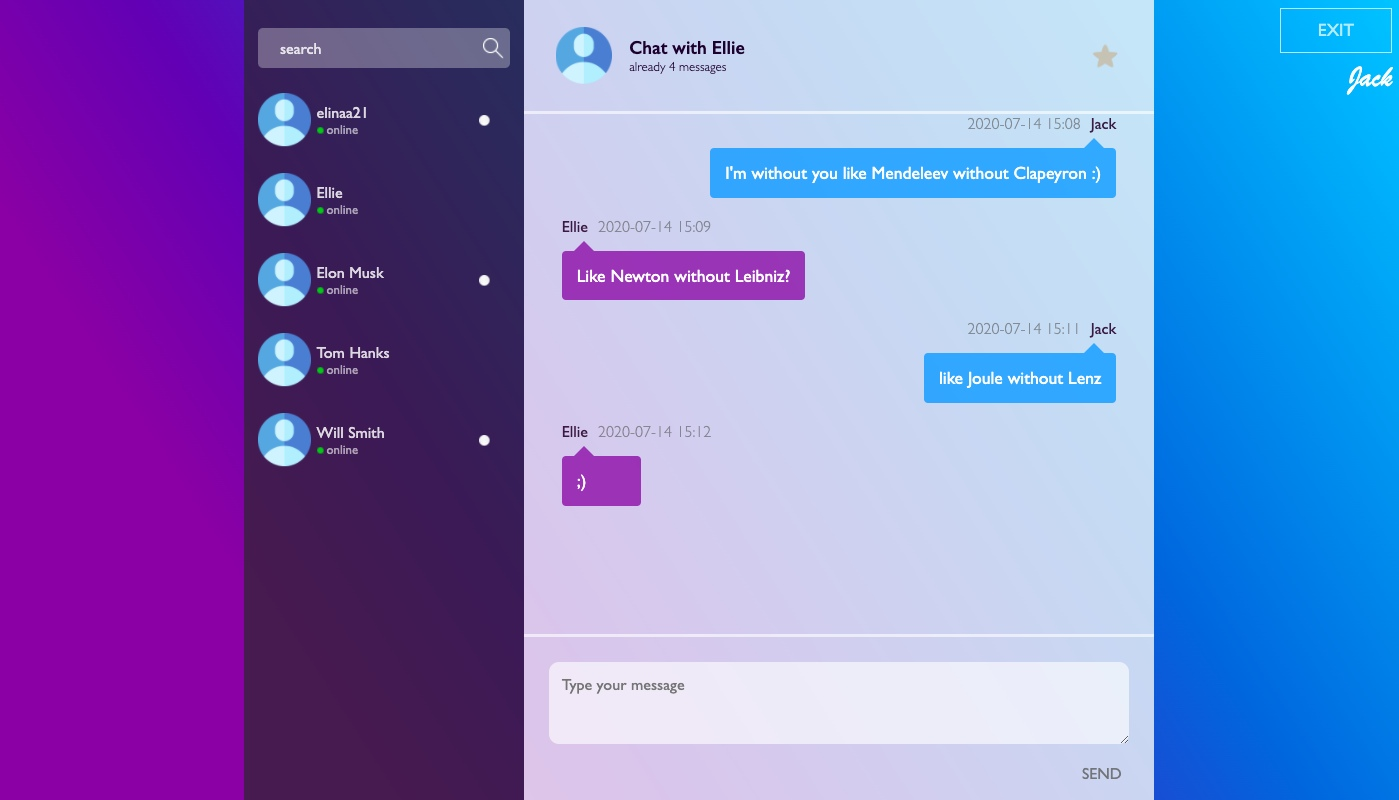
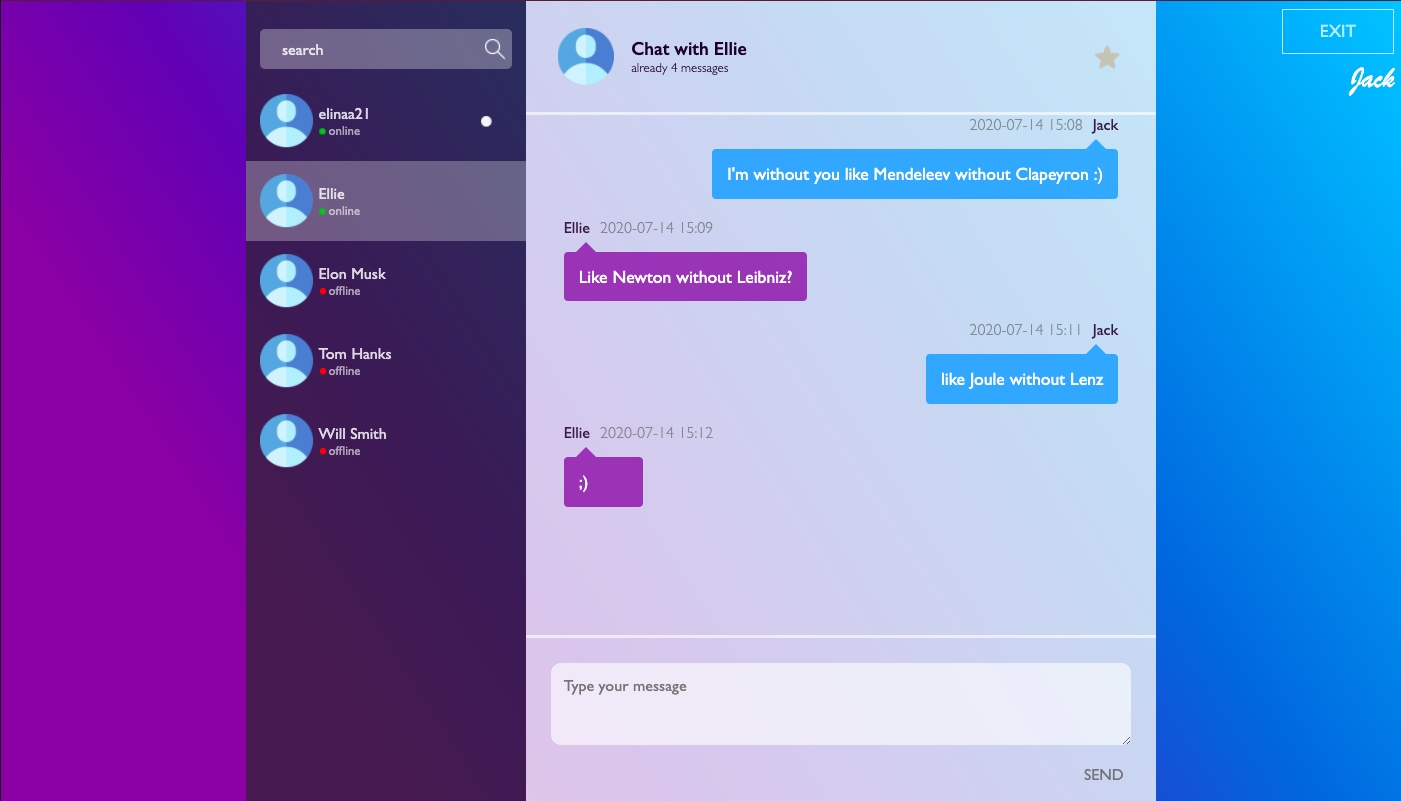
updated readme

diff --git a/src/components/Contact/Contact.tsx b/src/components/Contact/Contact.tsx
@@ -55,7 +55,7 @@ class Contact extends React.Component<IContactProps & IContactReduxProps> {
     }
 
     render(): JSX.Element {
-        this.activeUser = this.props.currentTurgetUser === this.props.name ? true : false;
+        this.activeUser = this.props.currentTurgetUser === this.props.name;
         return (
             <div className={cn('contact', '', {active: this.activeUser})} onClick={this.setActiveUser}>
                 <div className = {classNames.contactImg}/>

diff --git a/README.md b/README.md
@@ -1,5 +1,6 @@
  # Messenger
 ![alt-текст](./src/img/chat.jpg)
+![alt-текст](./src/img/login.jpg)
 
 
 ## Technology stack
@@ -8,6 +9,7 @@
 - SCSS
 - Webpack
 - Node.js
+- Express.js
 - MongoDB
 - Socket.IO
 
@@ -15,13 +17,15 @@
 - Sending and receiving messages
 - Authorization
 - Registration
+- Viewing online/offline statuses
+- Viewing unread messages
 
 ## Future improvements
 - Adding to favorites (button star)
 - Сontact search
 
 ## Launch
-1. install mongoDB
+1. install and launch mongoDB
 2. create database 'test', create collections 'sessions' and 'dialogs'
 3. npm i
 4. npm run server
